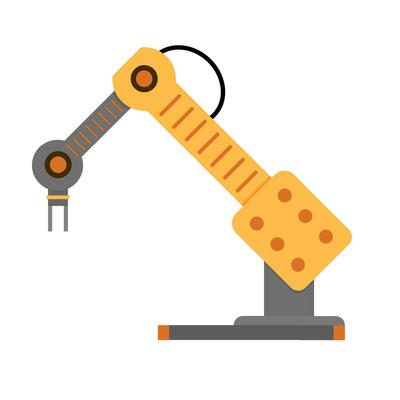
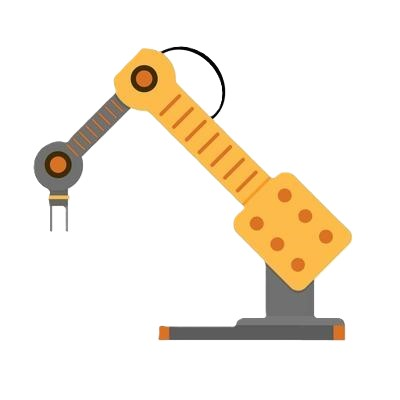
text update

diff --git a/index.html b/index.html
@@ -3,7 +3,7 @@
 <head>
     <meta charset="UTF-8">
     <meta name="viewport" content="width=device-width, initial-scale=1.0">
-    <title>FIRST LEGO League 2025 - Submerged Season</title>
+    <title>FIRST LEGO League 2025 - UNEARTHED challenge</title>
     <style>
         * {
             margin: 0;
@@ -975,7 +975,7 @@
                 <img id="snake-svg" src="img/batrang.png" alt="Snake decoration">
                 <h1>Talcott Mountain Science Center</h1>
             </div>
-            <p class="subtitle">FIRST LEGO League 2025: Submerged</p>
+            <p class="subtitle">FIRST LEGO League 2025: UNEARTHED challenge</p>
         </header>
 
         <div class="team-info reveal">
@@ -1059,14 +1059,14 @@
                     <div class="date-content">
                         <p><strong>Session Focus: Season Kickoff & Team Building</strong></p>
                         <ul>
-                            <li><span class="checkmark">✓</span> Introduction to FIRST LEGO League and Submerged Season theme</li>
+                            <li><span class="checkmark">✓</span> Introduction to FIRST LEGO League and Season theme</li>
                             <li><span class="checkmark">✓</span> Team building activities and core values discussion</li>
                             <li><span class="checkmark">✓</span> Overview of robot game missions and challenge mat</li>
-                            <li><span class="checkmark">✓</span> Introduction to LEGO SPIKE Prime robotics kit</li>
+                            <li><span class="checkmark">✓</span> Introduction to LEGO SPIKE robotics kit</li>
                             <li><span class="checkmark">✓</span> Brainstorming session for innovation project ideas</li>
                             <li><span class="checkmark">✓</span> Team roles assignment and responsibilities</li>
                         </ul>
-                        <p><strong>Homework:</strong> Research ocean conservation topics and bring 3 ideas for innovation project next session</p>
+                        <p><strong>Homework:</strong> Research UNEARTHED topics and bring 3 ideas for innovation project next session</p>
                     </div>
                 </div>
 
